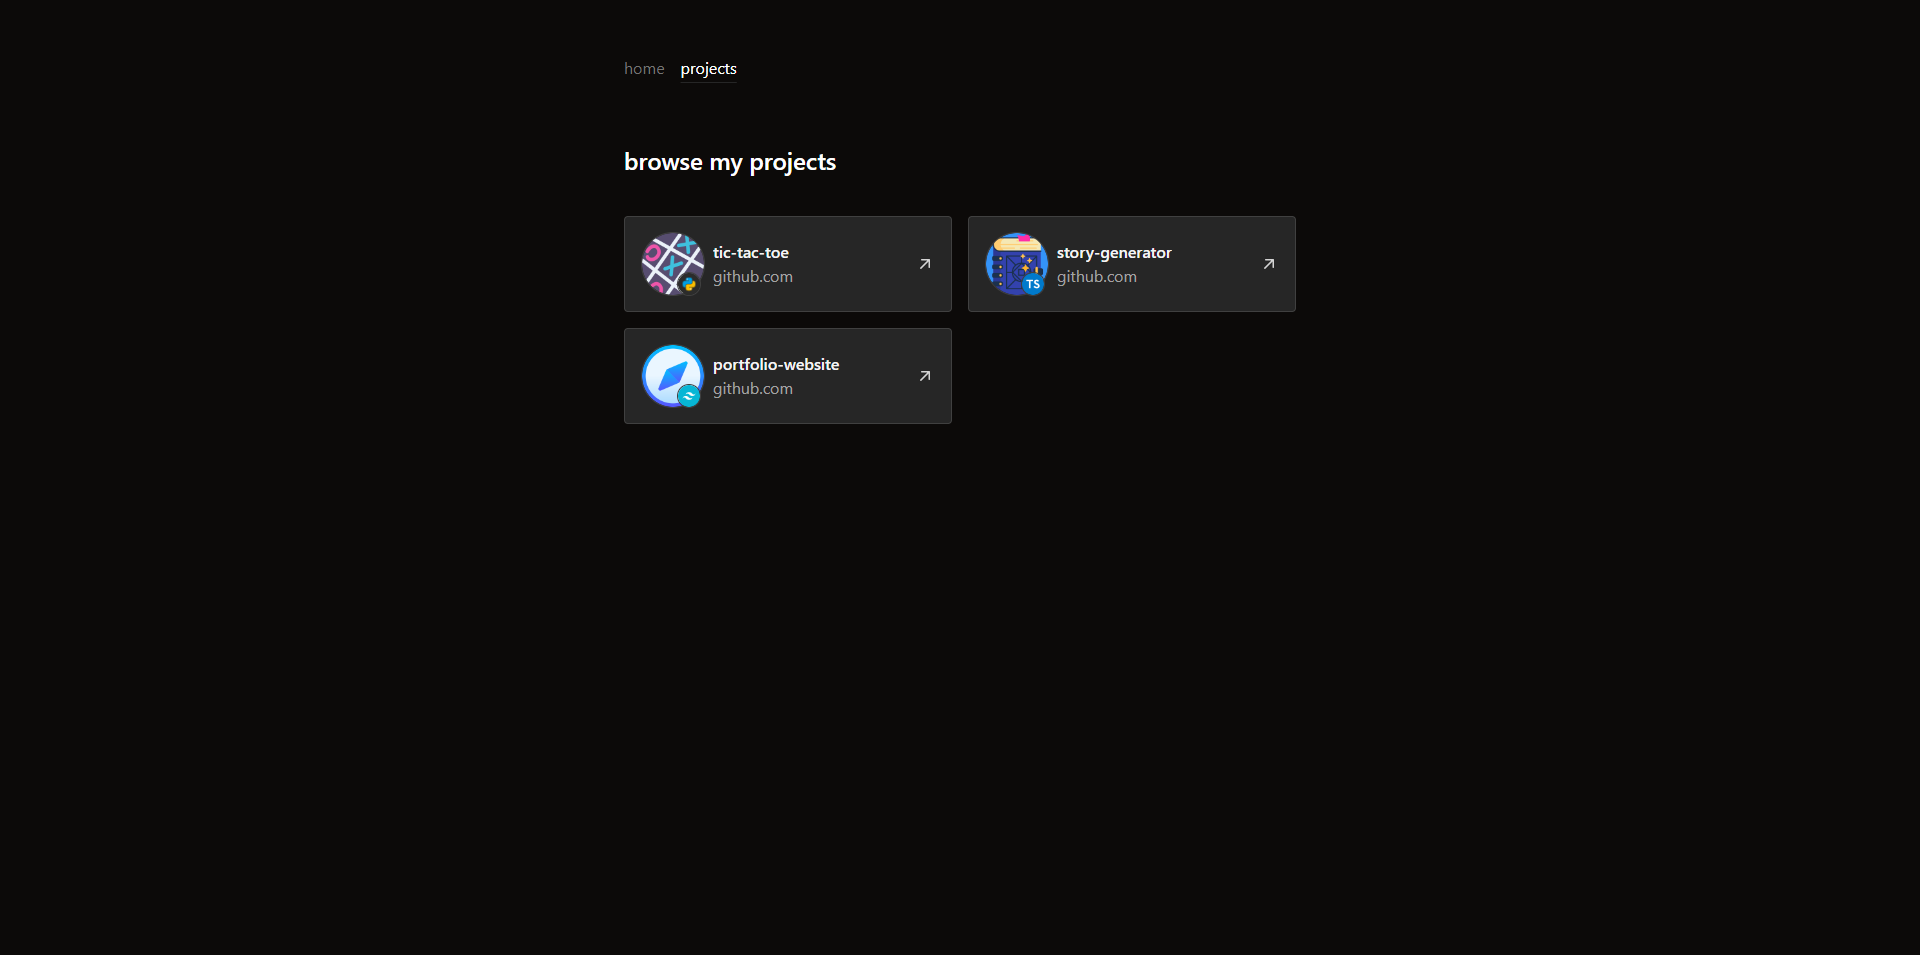
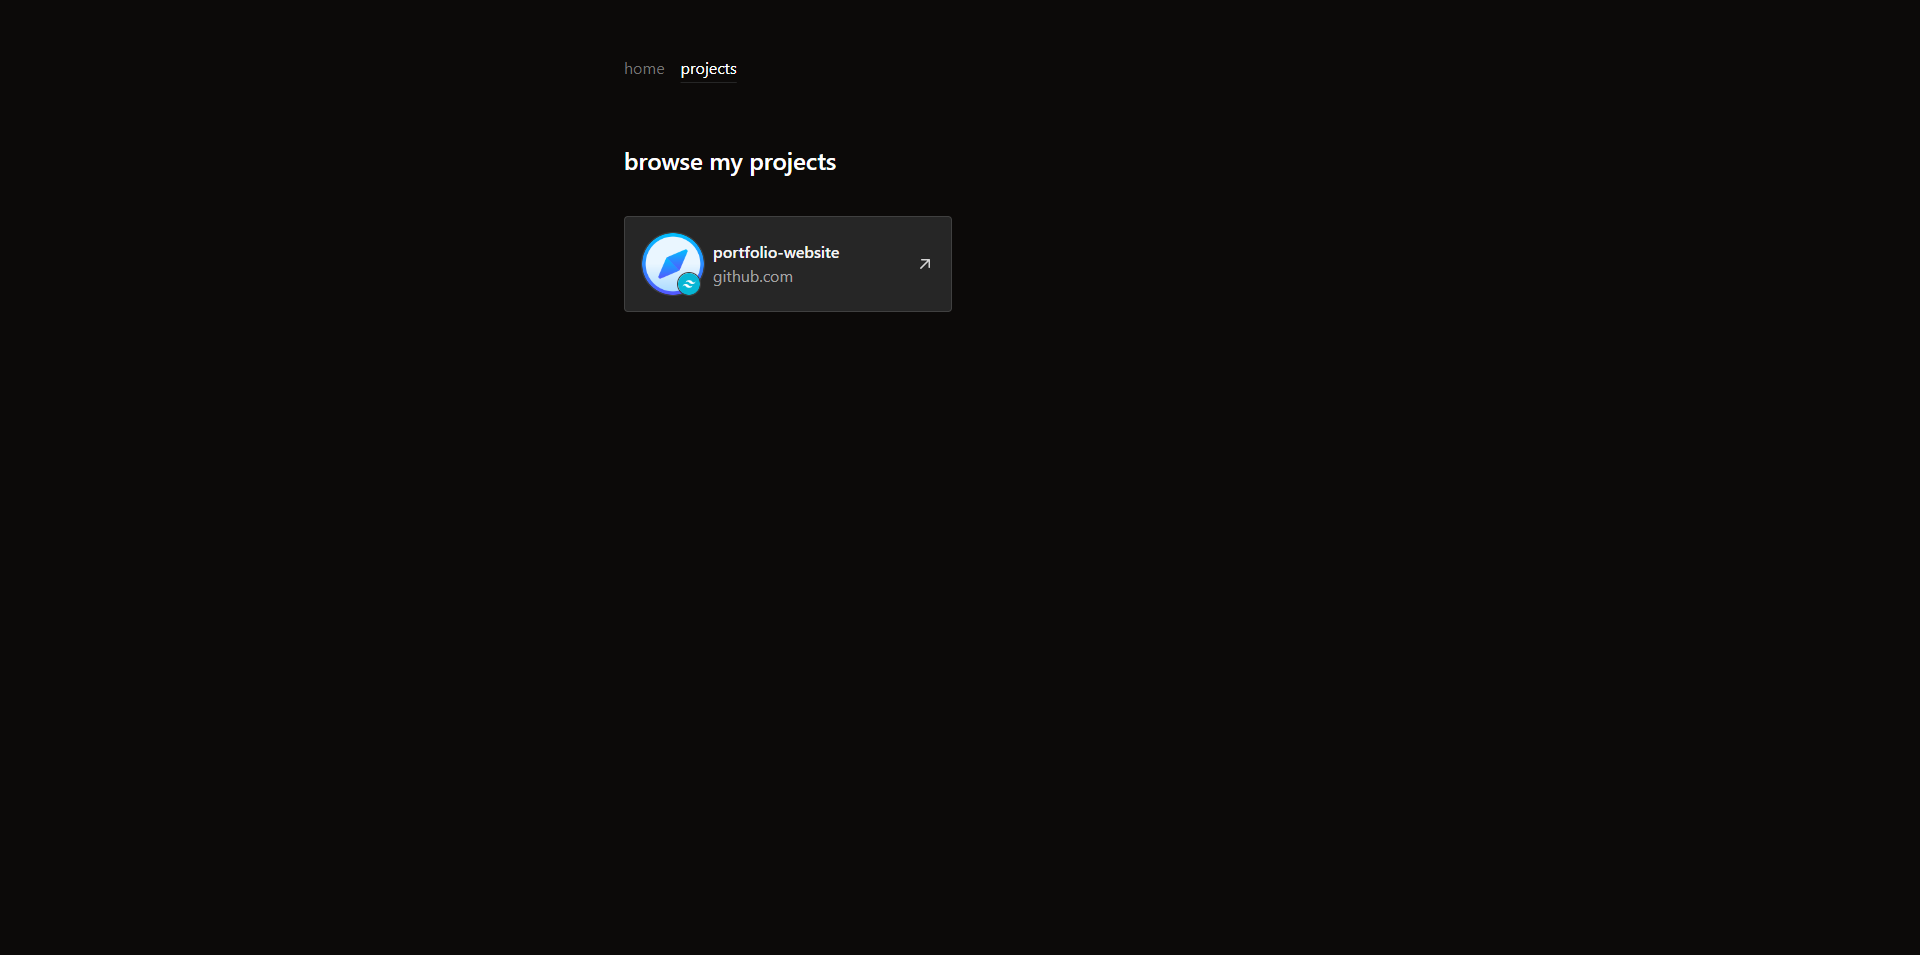
Remove basic projects

Changed region(s): [[0.5, 0.2126, 0.6875, 0.334], [0.3125, 0.334, 0.5, 0.4555], [0.3125, 0.2429, 0.4375, 0.3037]]

diff --git a/README.md b/README.md
@@ -8,7 +8,7 @@
 - Reponsive Design
 
 ## Technologies
-[![](https://skillicons.dev/icons?i=html,css,js,ts,astro,git,tailwind,github,vscode,vercel,bash,md)](https://adamsnow.dev)
+[![](https://skillicons.dev/icons?i=html,css,astro,git,tailwind,github,vscode,vercel,bash,md)](https://adamsnow.dev)
 
 ## Screenshots
 [![](public/home-screenshot.png)](https://adamsnow.dev)
